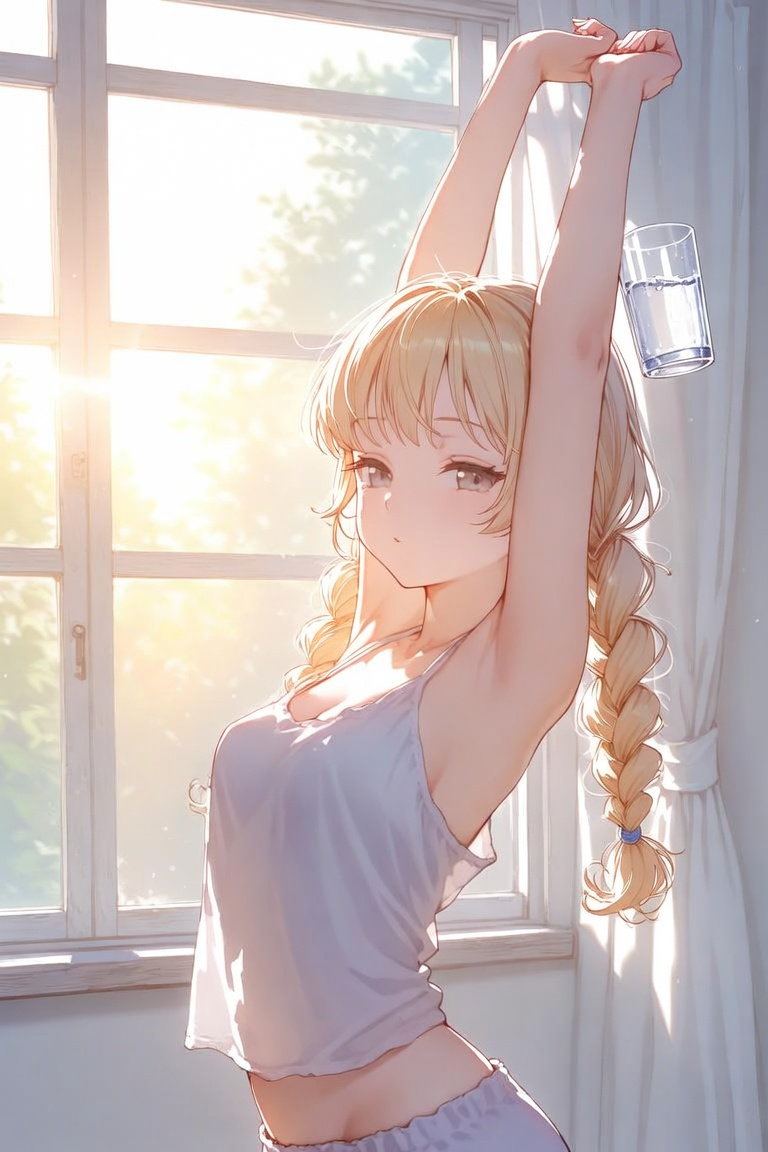
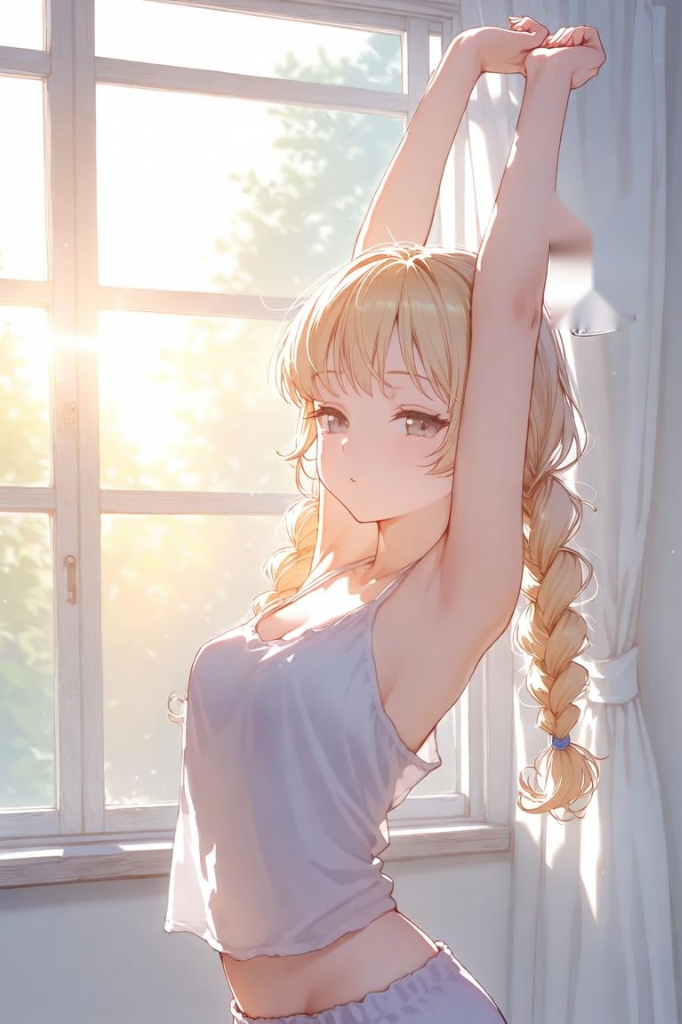
feat: polish and integrate morning sunlight aesthetic CGs (matcha, running, workout, evening)

diff --git a/index.html b/index.html
@@ -661,18 +661,16 @@
     const SITUATIONS = {
       gemini: {
         idle: { img: './trainer_gemini.png', tag: '✨ 일상 코칭', text: '프로듀서, 슬림핏 52kg 될 때까지 긴장 늦추지 마!' },
-        morning: { img: './trainer_gemini.png', tag: '☀ 모닝 스트레칭', text: '공복 유산소 전 시원한 물 한 잔! 오늘 10시 첫 식사 전까지 지방 불태우자.' },
-        tea: { img: './trainer_gemini.png', tag: '🍵 홈카페 말차 타임', text: '다기로 정성껏 격불한 말차야. 카테킨 성분이 지방 연소를 돕는 거 알지?' },
-        cafe: { img: './trainer_gemini.png', tag: '☕ 테라스 에스프레소', text: '카페인 부스팅 완료! 오늘도 활기차게 식단 지켜보자구.' },
-        workout: { img: './trainer_gemini.png', tag: '💪 코어 & 엘보 재활', text: '2kg 덤벨 익센트릭 컬이랑 14분 복근! 손아귀 힘 절대 주지 말고!' },
-        inbody: { img: './trainer_gemini.png', tag: '📊 인바디 데이', text: '수요일 측정 완료! 골격근 지키고 체지방만 쏙 빠졌는지 볼까?' }
+        morning: { img: './gemini_morning.png', tag: '☀ 모닝 스트레칭', text: '창가로 들어오는 아침 햇살 받으면서 기지개 쭉! 10시 첫 식사 전까지 공복 유지하자.' },
+        tea: { img: './gemini_tea_matcha.png', tag: '🍵 홈카페 말차 타임', text: '다기로 정성껏 격불한 말차야. 카테킨 성분이 지방 연소를 돕는 거 알지?' },
+        workout: { img: './gemini_workout_clean.png', tag: '💪 코어 & 엘보 재활', text: '2kg 덤벨 익센트릭 컬이랑 14분 복근! 손아귀 힘 절대 주지 말고!' },
+        night: { img: './gemini_evening.png', tag: '🌙 17:00 단식 마감', text: '오늘 17:00 셧다운 완벽 성공! 따뜻한 차 마시면서 푹 쉬자, 바보 프로듀서.' }
       },
       mio: {
         idle: { img: './trainer_mio.png', tag: '✨ 파트너 미오', text: '에헤헤, 프로듀서! 오늘도 나랑 기운차게 하루를 시작해볼까? 🏃♀' },
-        running: { img: './trainer_mio.png', tag: '🏃 야외 트랙 러닝', text: '5km 가뿐하게 완주! 나이키런 페이스 완벽했어! 하이파이브~ 🖐' },
+        running: { img: './mio_sunlight_run.png', tag: '🏃 야외 햇살 러닝', text: '나뭇잎 사이로 햇살 쏟아지는 트랙에서 5km 완주! 완전 상쾌하다 그치? 하이파이브! 🖐' },
         tea: { img: './trainer_mio.png', tag: '☕ 티 브레이크', text: '향긋한 차 한 잔으로 에너지 충전 완료! 다시 파이팅!' },
-        workout: { img: './trainer_mio.png', tag: '💪 파워 트레이닝', text: '복근 쥐어짜는 느낌 그대로! 프로듀서 진짜 대단해!' },
-        inbody: { img: './trainer_mio.png', tag: '📊 인바디 응원', text: '와아~ 체지방 내려간 거 보여? 프로듀서 노력은 배신하지 않는다구!' }
+        workout: { img: './trainer_mio.png', tag: '💪 파워 트레이닝', text: '복근 쥐어짜는 느낌 그대로! 프로듀서 진짜 대단해!' }
       },
       dual: {
         inbody: { img: './dual_inbody.png', tag: '⭐ 합동 스페셜', text: '제미니 & 미오: 인바디 목표 52kg 달성을 향해 함께 달려가자! 💖' }

diff --git a/refine_aesthetic_cgs.py b/refine_aesthetic_cgs.py
@@ -1,0 +1,79 @@
+"""Refine Event CGs using the exact proven aesthetic prompt from gemini_morning
+"""
+import time
+from pathlib import Path
+from selenium import webdriver
+from selenium.webdriver.firefox.options import Options
+from selenium.webdriver.common.by import By
+from selenium.webdriver.common.keys import Keys
+from _browser import first_visible_css, big_image_srcs, wait_new_images, fetch_image
+
+FIREFOX_EXE = r"C:\Program Files\Mozilla Firefox\firefox.exe"
+PROFILE_DIR = Path(r"d:\OneDrive\WorkSpace\02 AI 작업물\Health\.grok_profile")
+
+AESTHETIC_JOBS = [
+    (
+        "gemini_tea_matcha.png",
+        "Masterpiece, official Gakuen Idolmaster soft delicate anime aesthetic. Cute 19yo anime idol trainer girl with soft blonde hair in twin braids, holding a traditional ceramic matcha tea bowl with fine green foam, gentle warm tsundere smile looking at viewer, sitting beside a sunlit cafe window with tea utensils, soft warm golden sunlight pouring in, airy pastel watercolor texture, slender toned waist, high quality anime illustration, aspect ratio 9:16"
+    ),
+    (
+        "mio_sunlight_run.png",
+        "Masterpiece, official Gakuen Idolmaster soft delicate anime aesthetic. Cute 19yo anime idol girl Honda Mio, short layered warm brown hair with cute side bangs, bright warm amber eyes, wearing sporty yellow and white fitness top, stretching or jogging pose on sunny outdoor track with green trees and dappled sunlight (komorebi), beaming radiant energetic smile, soft warm morning lighting, high quality anime card illustration, aspect ratio 9:16"
+    ),
+    (
+        "gemini_workout_clean.png",
+        "Masterpiece, official Gakuen Idolmaster soft delicate anime aesthetic. Cute 19yo anime idol trainer girl with soft blonde hair in twin braids, sporty mint and white fitness outfit, holding small 2kg pink dumbbell demonstrating safe wrist rehab exercise, focused caring confident gaze, sunlit bright modern fitness studio, airy soft lighting, slender fit waist, high quality anime illustration, aspect ratio 9:16"
+    ),
+    (
+        "gemini_evening.png",
+        "Masterpiece, official Gakuen Idolmaster soft delicate anime aesthetic. Cute 19yo anime idol trainer girl with soft blonde hair in twin braids, cozy oversized pastel hoodie, holding warm mug of herbal tea, relaxed gentle soothing smile, cozy warm indoor ambient lamp lighting, cozy evening rest after fasting shutdown, high quality anime illustration, aspect ratio 9:16"
+    )
+]
+
+def run():
+    opts = Options()
+    opts.binary_location = FIREFOX_EXE
+    opts.add_argument("-profile")
+    opts.add_argument(str(PROFILE_DIR))
+    driver = webdriver.Firefox(options=opts)
+    driver.set_window_size(1400, 1000)
+    driver.set_script_timeout(120)
+    
+    try:
+        driver.get("https://grok.com/imagine")
+        time.sleep(4)
+        prompt_css = ["textarea", "div[contenteditable='true']", "[role='textbox']"]
+        box = first_visible_css(driver, prompt_css, 15)
+        if not box:
+            driver.get("https://grok.com")
+            box = first_visible_css(driver, prompt_css, 20)
+        if not box:
+            print("Could not find prompt box on grok.com")
+            return
+
+        for fname, prompt in AESTHETIC_JOBS:
+            out_path = Path(r"d:\OneDrive\WorkSpace\02 AI 작업물\Health") / fname
+            if out_path.exists():
+                print(f"Skipping {fname} (already exists)")
+                continue
+            
+            print(f"Generating {fname}...")
+            before = set(big_image_srcs(driver))
+            box.click()
+            time.sleep(0.5)
+            box.send_keys(prompt)
+            box.send_keys(Keys.ENTER)
+            
+            new_imgs = wait_new_images(driver, before, timeout=120, settle=3.0)
+            if new_imgs:
+                img = fetch_image(driver, new_imgs[0], "https://grok.com")
+                img.save(out_path, format="PNG")
+                print(f"Saved: {fname}")
+            else:
+                print(f"Timeout waiting for image: {fname}")
+            time.sleep(3)
+    finally:
+        driver.quit()
+
+if __name__ == "__main__":
+    run()
